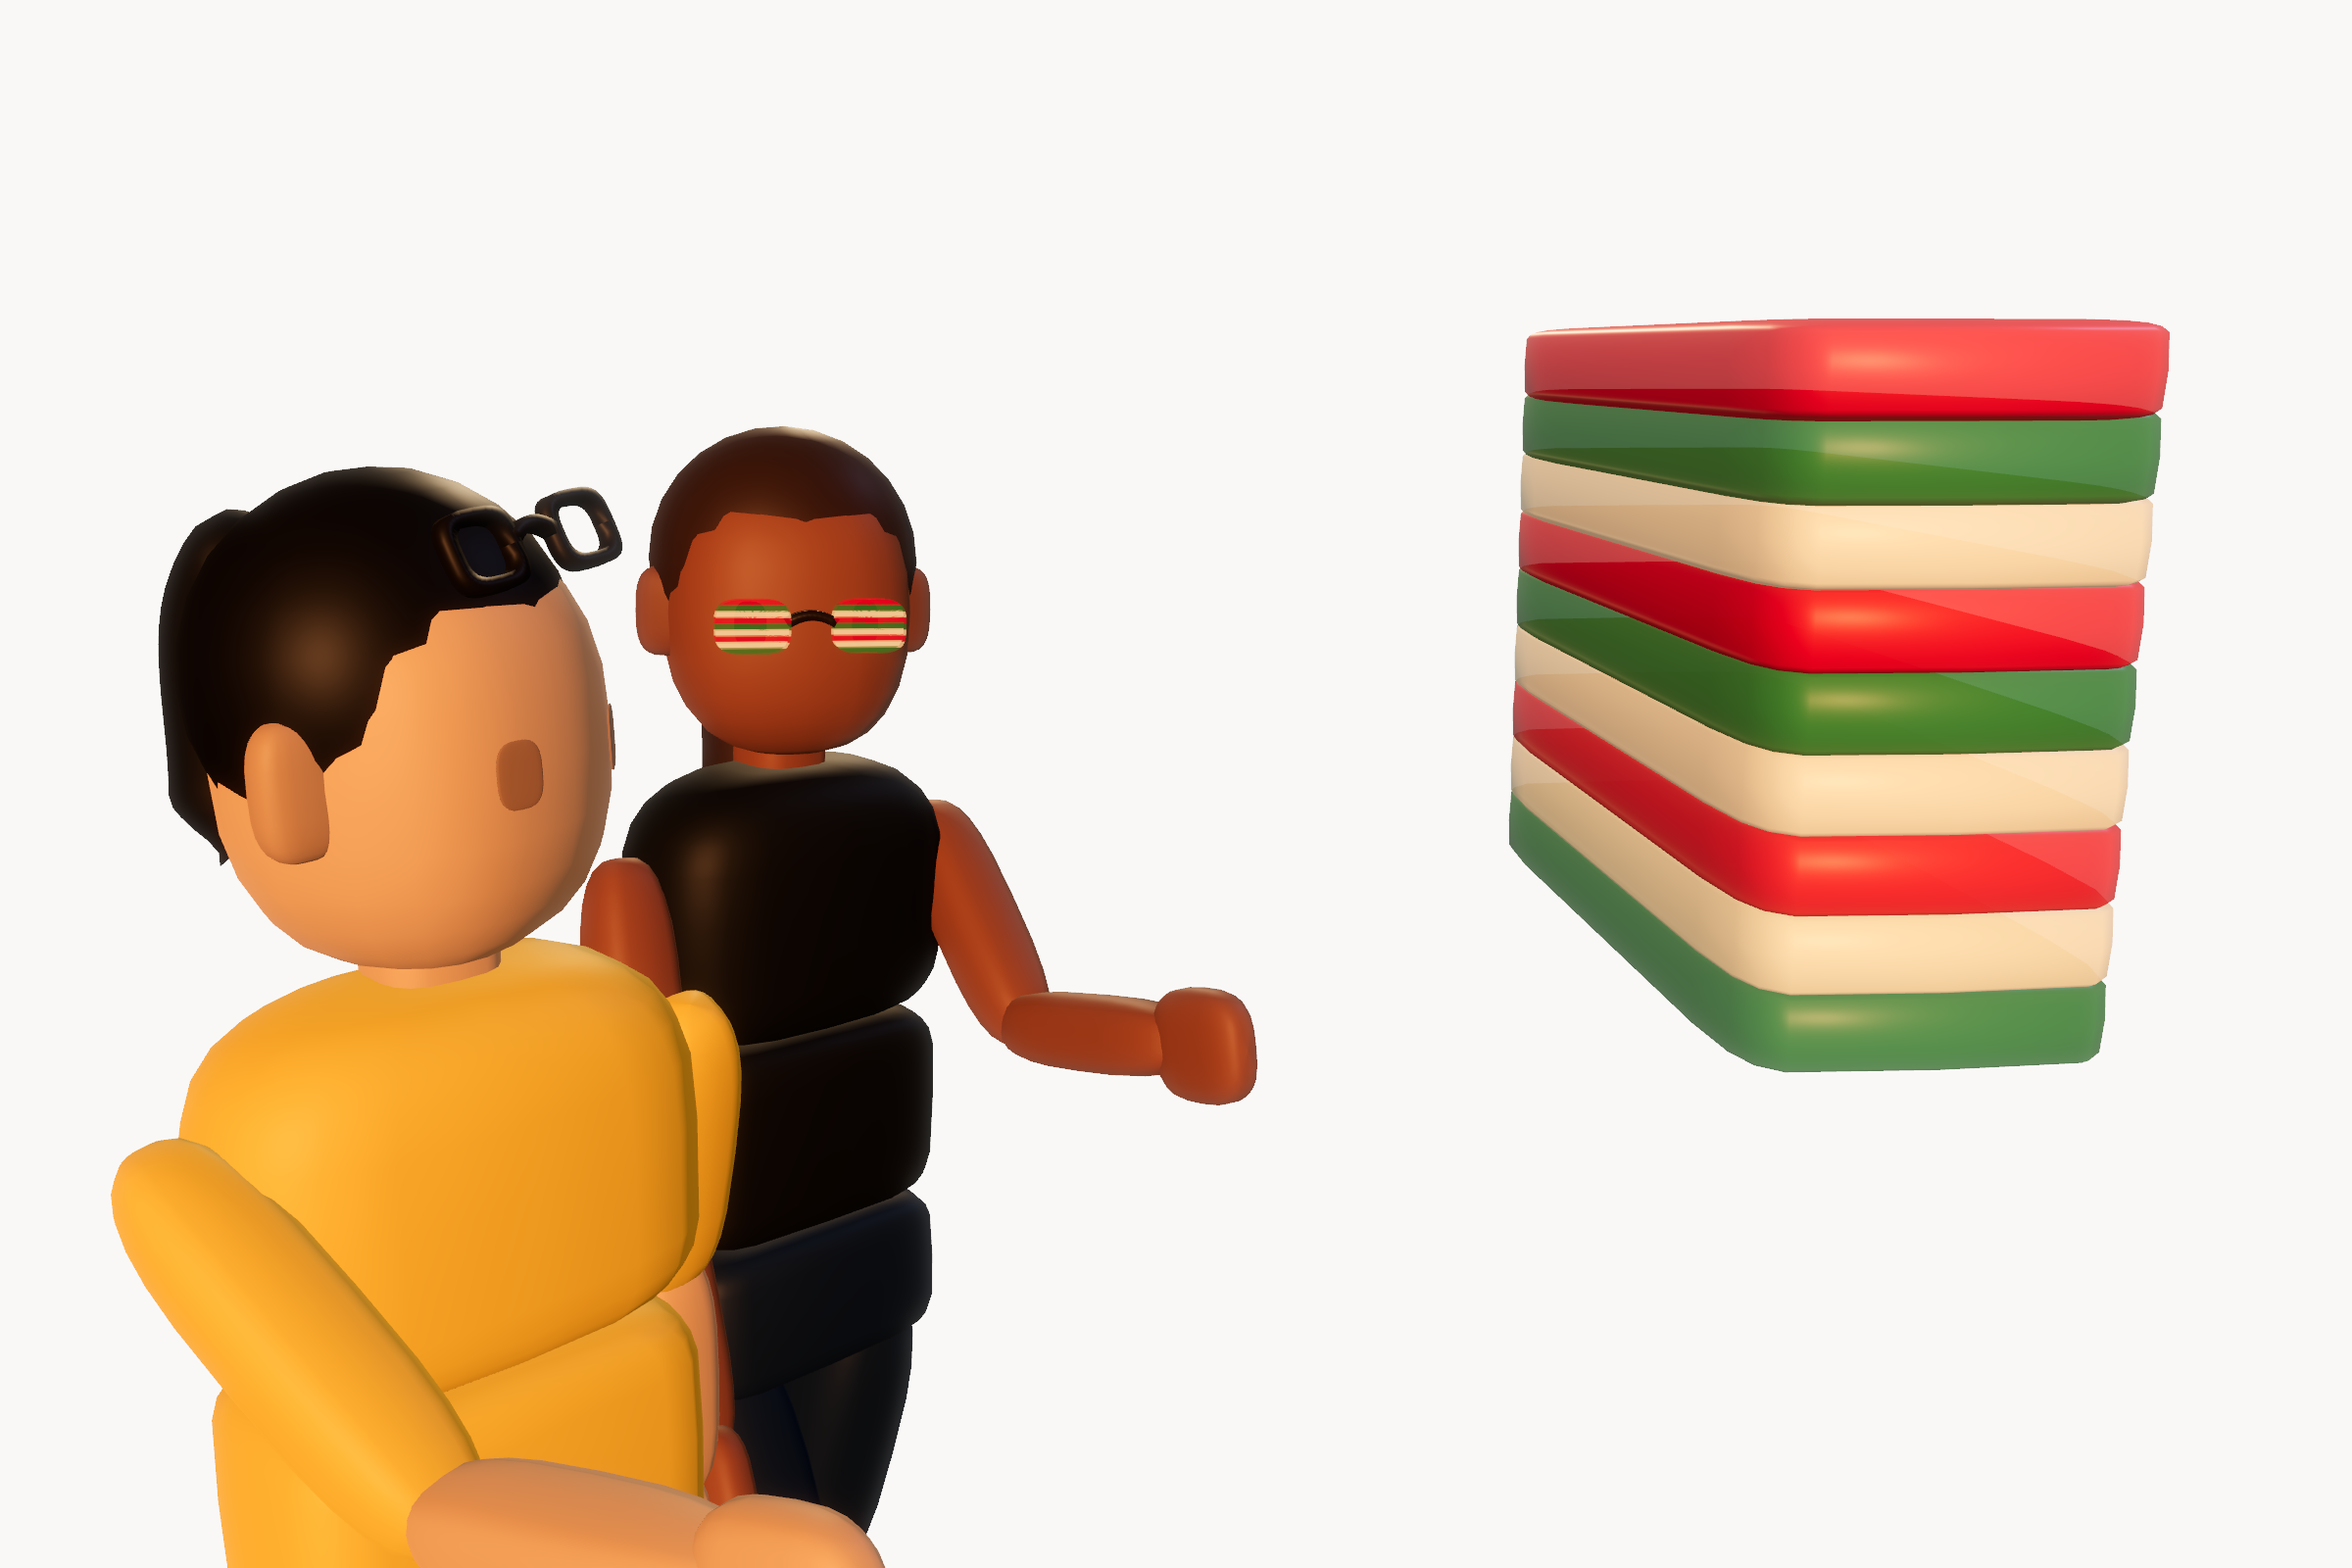
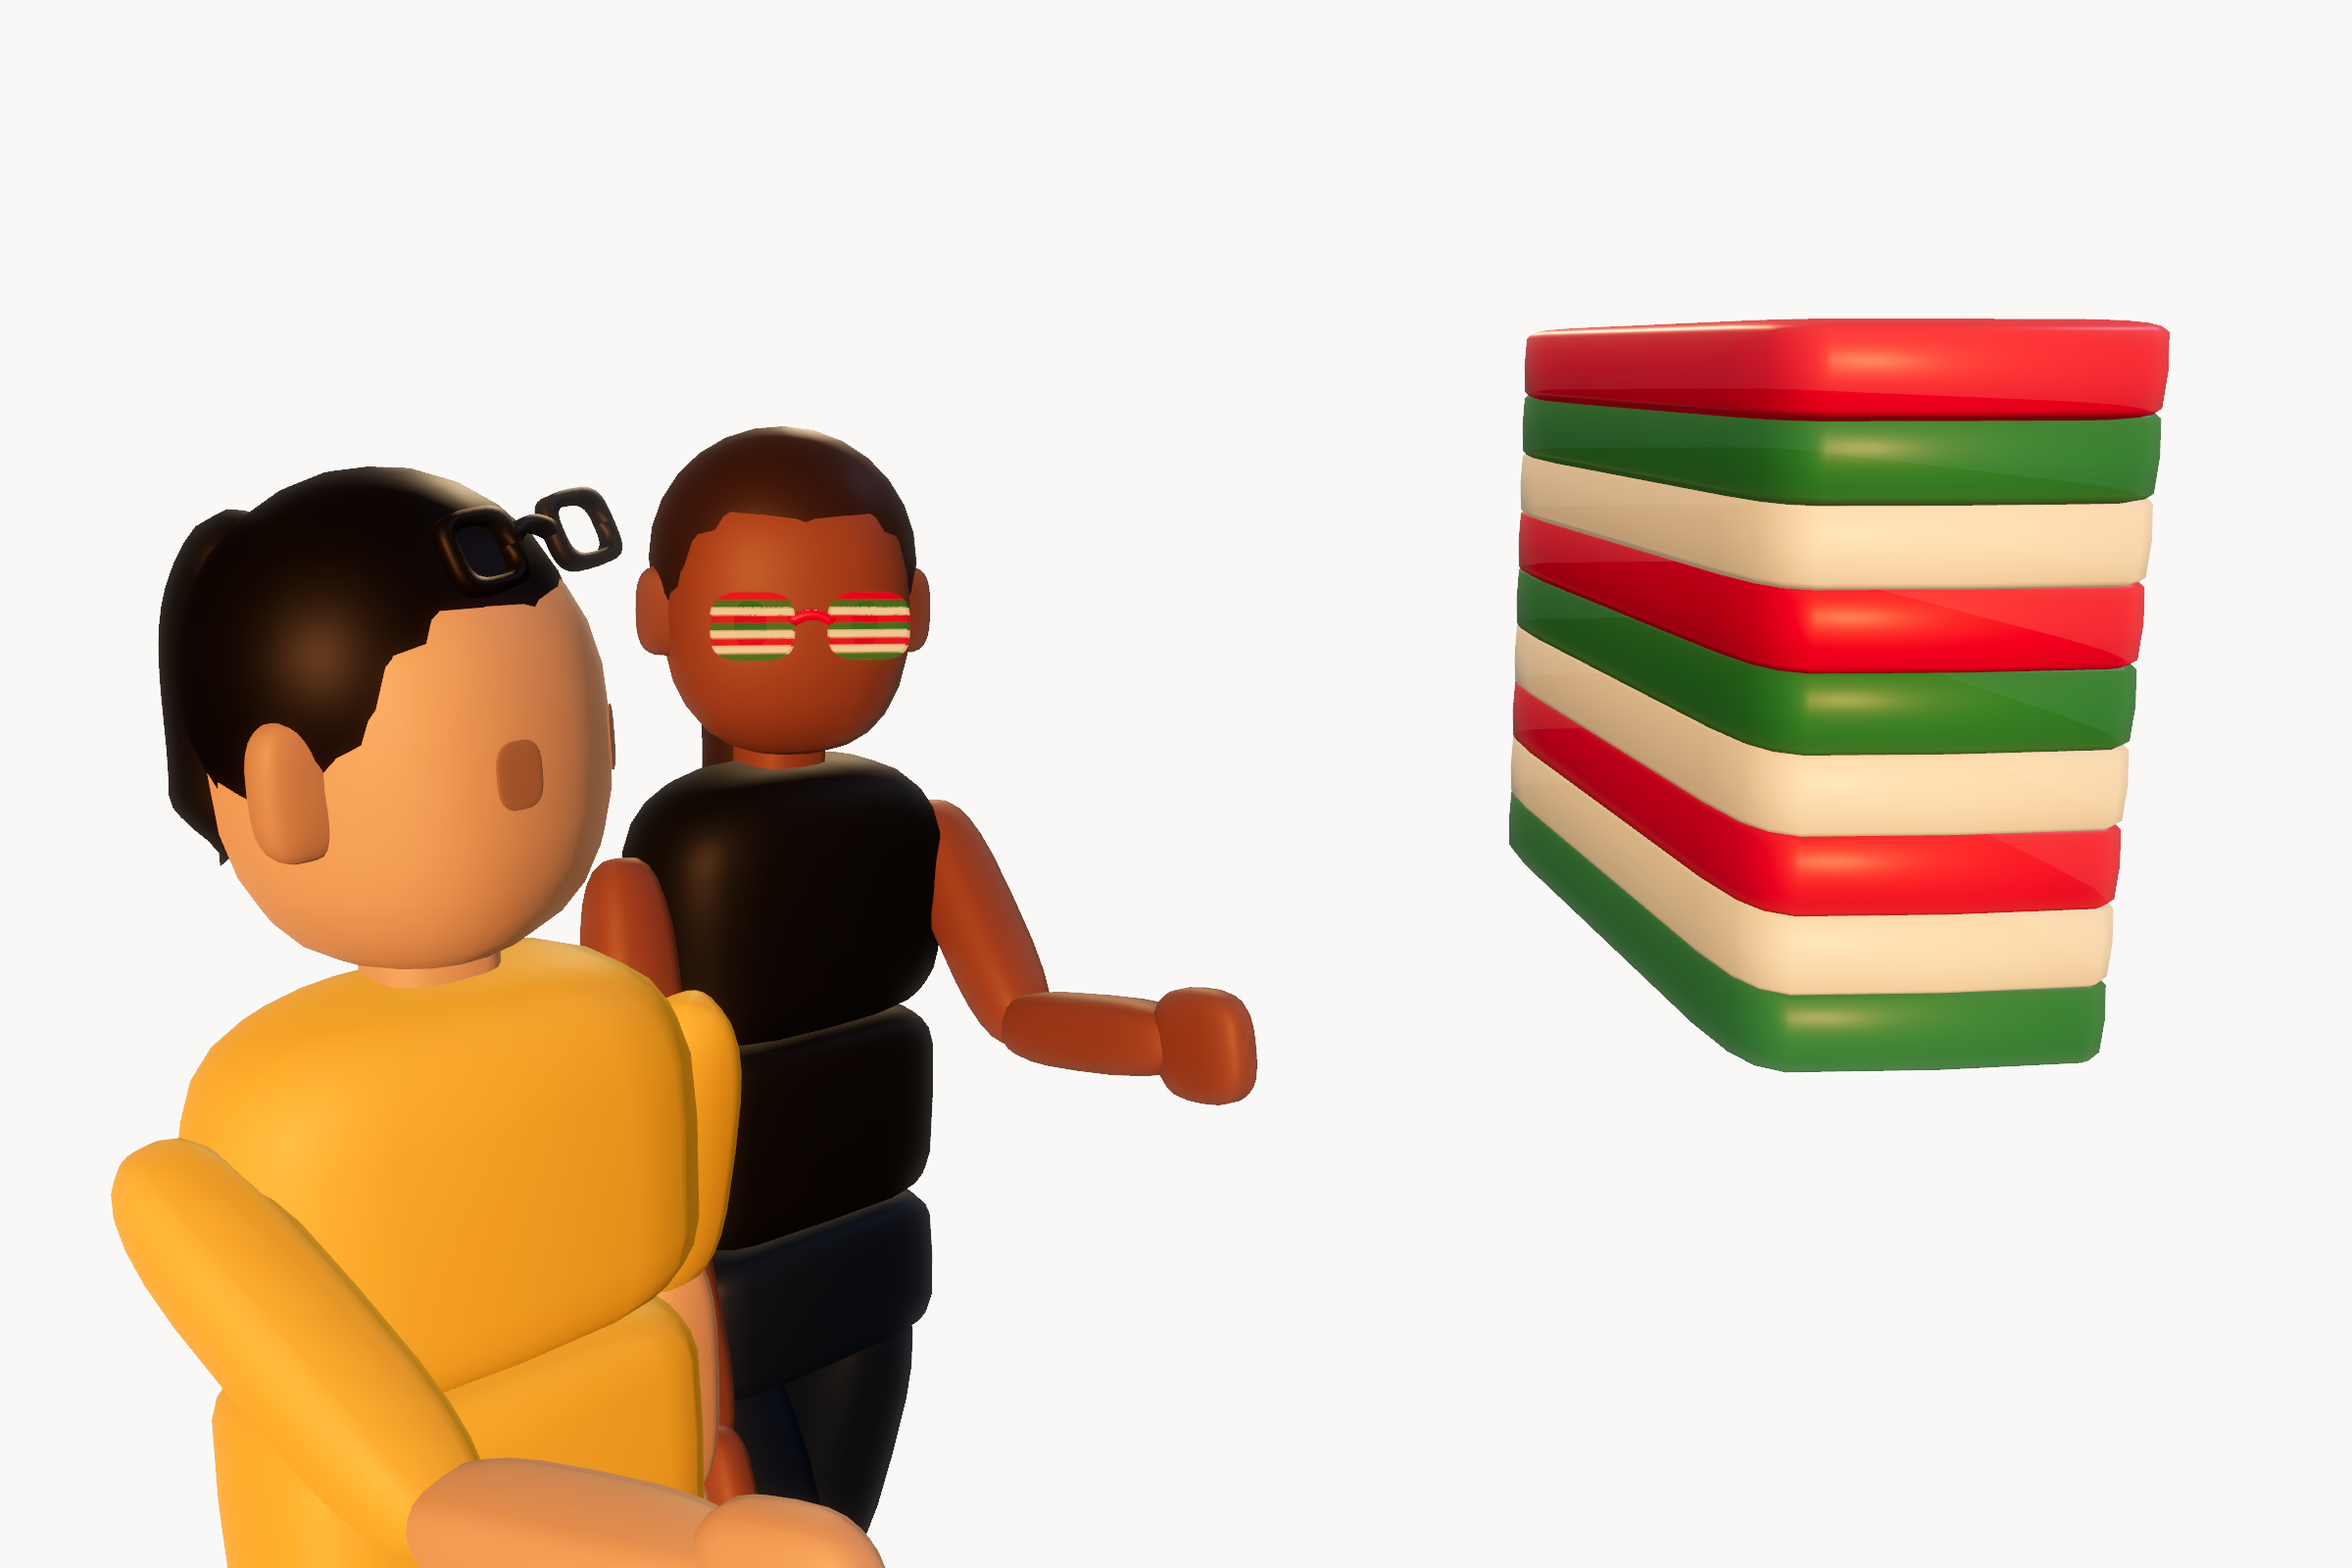
Tune lapis glasses size/bridge color, dial back kueh transparency
Lenses 10% wider and 25% taller; bridge now matches the kueh lapis's own
red band instead of the plain dark frame color. Kueh lapis transparency
reduced from 5% to 2%, per direct feedback. Re-rendered hero.png.

diff --git a/machines/hub/index.html b/machines/hub/index.html
@@ -348,7 +348,7 @@ body {
 		<script src="/shared/character-system.js"></script>
 		<script src="index.js"></script>
 		<script>
-const GODOT_CONFIG = {"args":[],"canvasResizePolicy":2,"emscriptenPoolSize":8,"ensureCrossOriginIsolationHeaders":true,"executable":"index","experimentalVK":false,"fileSizes":{"index.pck":902904,"index.wasm":39513091},"focusCanvas":true,"gdextensionLibs":[],"godotPoolSize":4};
+const GODOT_CONFIG = {"args":[],"canvasResizePolicy":2,"emscriptenPoolSize":8,"ensureCrossOriginIsolationHeaders":true,"executable":"index","experimentalVK":false,"fileSizes":{"index.pck":902888,"index.wasm":39513091},"focusCanvas":true,"gdextensionLibs":[],"godotPoolSize":4};
 const GODOT_THREADS_ENABLED = false;
 const engine = new Engine(GODOT_CONFIG);
 
